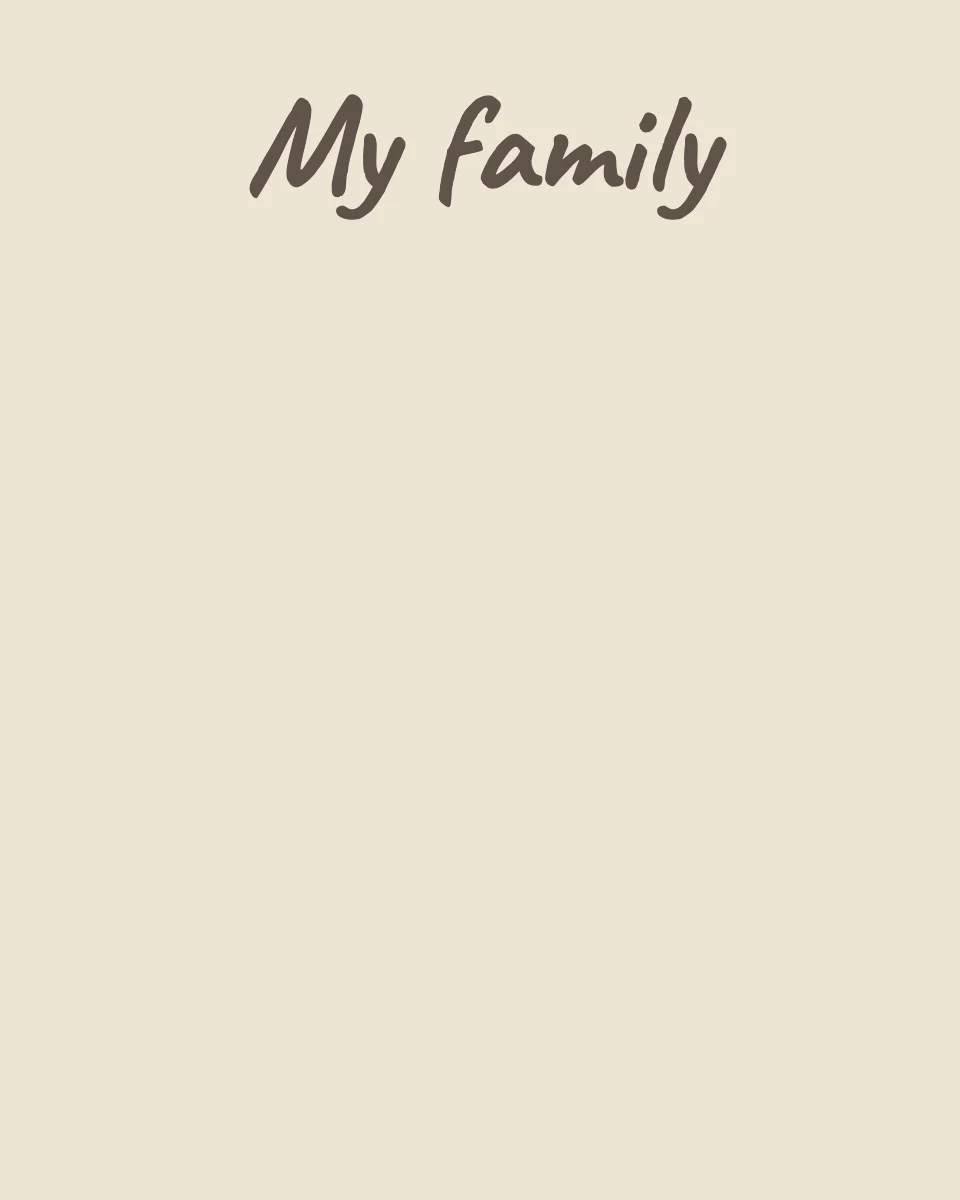
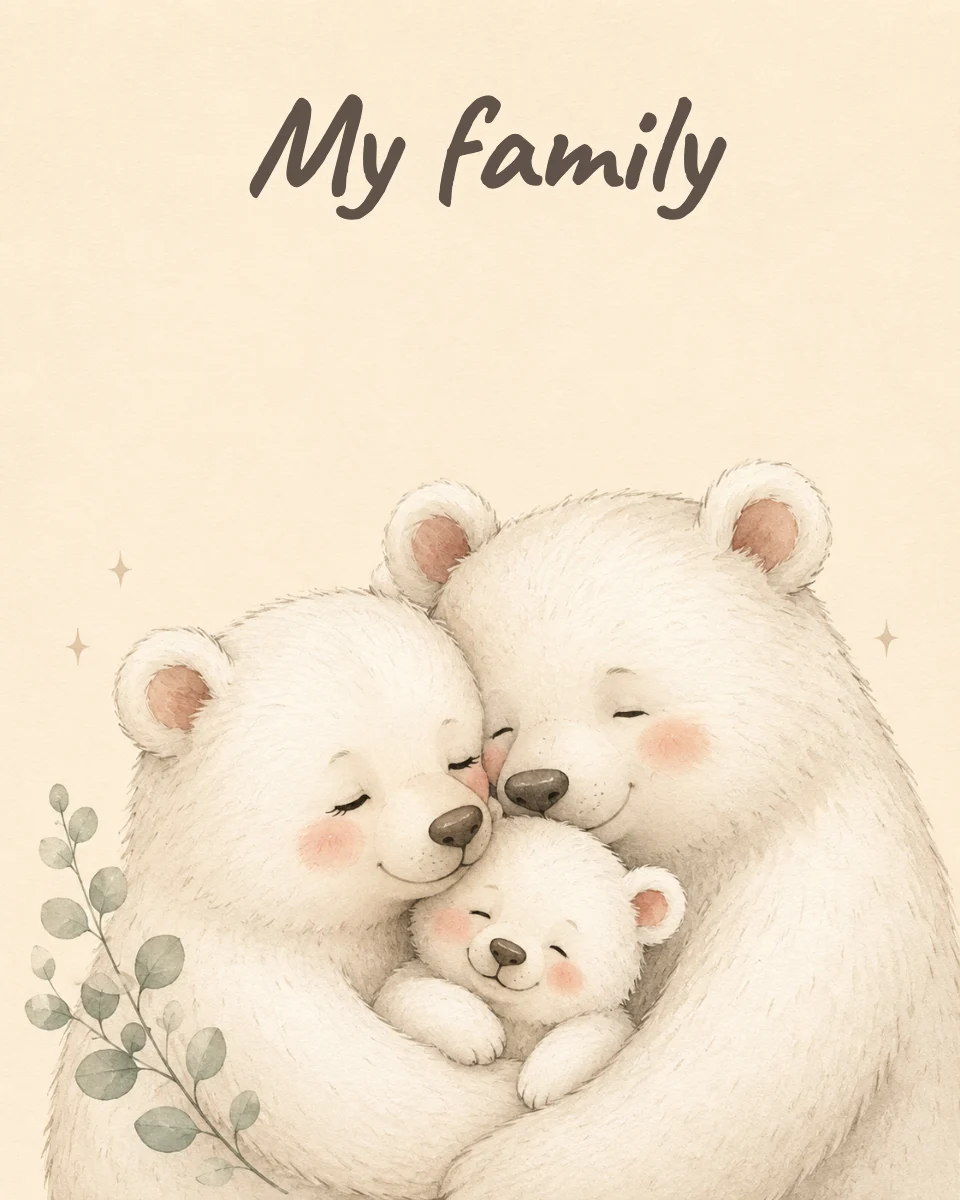
Moments art: batch E — With family COMPLETE (25/25) via 10 paintings + 13 aliases
Mama and me · Papa and me · Grandma and me · Grandpa and me (grandparents
distinguished by a silver-grey sheen, no clothes) · My family · First
sibling moment · First time meeting Grandma/Grandpa · First video call ·
Someone special visited. The 13 variant cards (A day with Mama, Sunday
with family, My village…) inherited their base art in the same bake.

Also: new dedup aliases — Birthday->First birthday party, Holiday->First
holiday, First beach trip->First beach day, First vacation->First road
trip, First trip abroad->First flight, First passport photo->First
photoshoot (pending base), journaling five share one design (pending),
weeks-old markers share the one-week pose (pending). 191/216 visible
cards now painted or aliased; 30 scenes remain (batches F, G, H).

diff --git a/tools/compose_cards.js b/tools/compose_cards.js
@@ -32,6 +32,15 @@ const ART_ALIAS = {
   'LC-179': 'LC-067',                                                        // I love bath time -> My first bath
   'LC-215': 'LC-060',                                                        // First family photo (With family) -> First family photo (Newborn)
   'LC-232': 'LC-214',                                                        // First time meeting family -> My family
+  'LC-216': 'LC-155',                                                        // First cousin photo -> Made a new friend (two cubs)
+  'LC-235': 'LC-164',                                                        // Birthday (recurring) -> First birthday party
+  'LC-236': 'LC-162',                                                        // Holiday (recurring) -> First holiday
+  'LC-242': 'LC-159',                                                        // First beach trip -> First beach day
+  'LC-241': 'LC-160',                                                        // First vacation -> First road trip
+  'LC-085': 'LC-087', 'LC-086': 'LC-087', 'LC-088': 'LC-087', 'LC-089': 'LC-087',  // journaling set -> one journal design
+  'LC-082': 'LC-081', 'LC-083': 'LC-081', 'LC-084': 'LC-081',                      // weeks-old markers -> one-week pose
+  'LC-253': 'LC-252',                                                        // First passport photo -> First photoshoot
+  'LC-255': 'LC-161',                                                        // First trip abroad -> First flight
   'LC-218': 'LC-210', 'LC-220': 'LC-210', 'LC-222': 'LC-210', 'LC-224': 'LC-210',   // Mama variants -> Mama and me
   'LC-221': 'LC-211', 'LC-223': 'LC-211', 'LC-225': 'LC-211',                       // Papa variants -> Papa and me
   'LC-219': 'LC-214', 'LC-226': 'LC-214', 'LC-227': 'LC-214', 'LC-228': 'LC-214', 'LC-229': 'LC-214' // family variants -> My family
